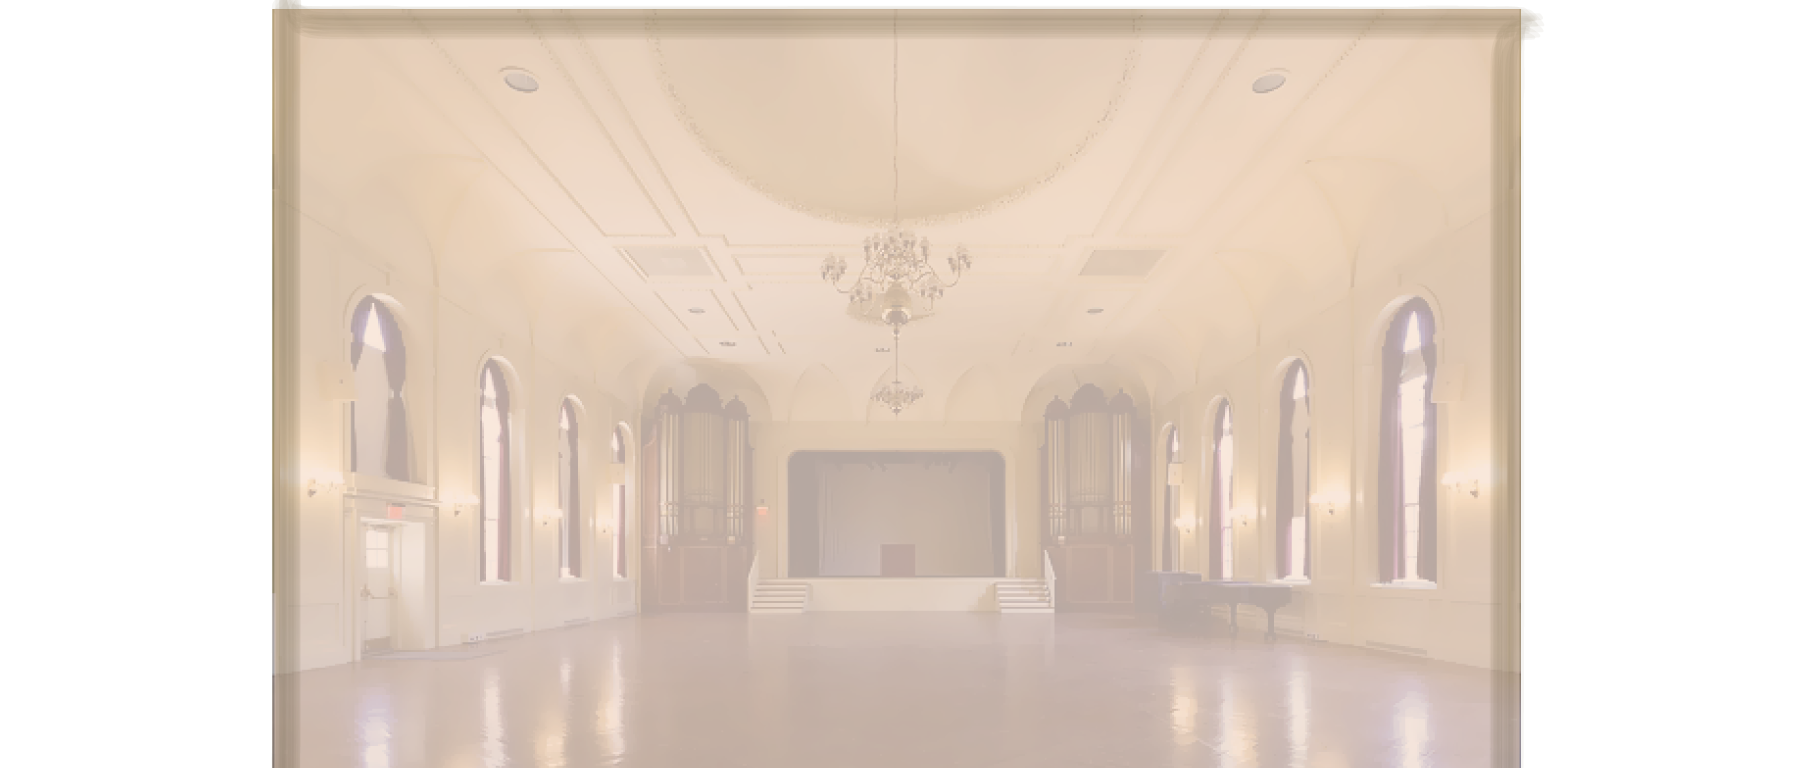
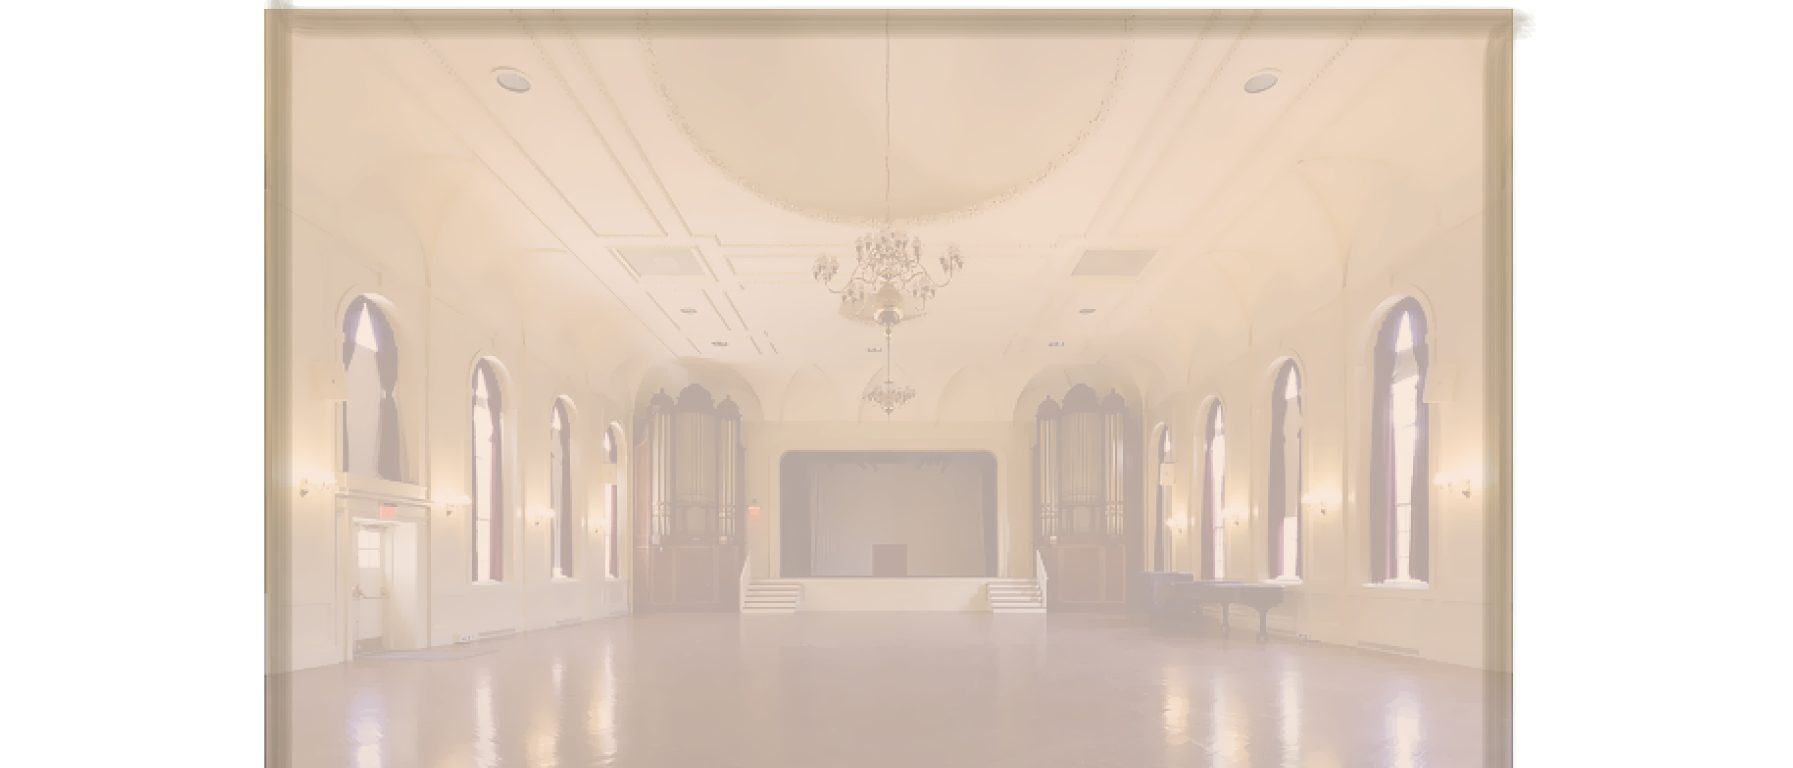
Moved CSS to separate directory for (eventually) more css sheets

diff --git a/css/mainstyles.css b/css/mainstyles.css
@@ -9,11 +9,12 @@
 
 #backdrop {
     background: 
-        url(graphics/button_title_text.png) no-repeat center center fixed,
-        url(graphics/borders.png) no-repeat center center fixed,
-        url(graphics/buttons.png) no-repeat center center fixed,
-        url(graphics/outer_backdrop.png) no-repeat center center fixed,
-        url(graphics/center_backdrop.png) no-repeat center center fixed;
+        url(../graphics/corner_flourishes.png) no-repeat center center fixed,
+        url(../graphics/button_title_text.png) no-repeat center center fixed,
+        url(../graphics/borders.png) no-repeat center center fixed,
+        url(../graphics/buttons.png) no-repeat center center fixed,
+        url(../graphics/outer_backdrop.png) no-repeat center center fixed,
+        url(../graphics/center_backdrop.png) no-repeat center center fixed;
 
     -webkit-background-size: cover;
     -moz-background-size: cover;

diff --git a/past_productions/index.html b/past_productions/index.html
@@ -1,7 +1,7 @@
 <!DOCTYPE html>
 <html>
     <head>
-        <link rel="stylesheet" href="../mainstyles.css" type="text/css"/>
+        <link rel="stylesheet" href="../css/mainstyles.css" type="text/css"/>
         <link rel="icon" type="image/png" href="graphics/favicon.png">
 
         <title>Brown University Gilbert & Sullivan</title>

diff --git a/aboutbugs.html b/aboutbugs.html
@@ -1,7 +1,7 @@
 <!DOCTYPE html>
 <html>
     <head>
-        <link rel="stylesheet" href="mainstyles.css" type="text/css"/>
+        <link rel="stylesheet" href="css/mainstyles.css" type="text/css"/>
         <link rel="icon" type="image/png" href="graphics/favicon.png">
 
         <title>Brown University Gilbert & Sullivan</title>

diff --git a/aboutgs.html b/aboutgs.html
@@ -1,7 +1,7 @@
 <!DOCTYPE html>
 <html>
     <head>
-        <link rel="stylesheet" href="mainstyles.css" type="text/css"/>
+        <link rel="stylesheet" href="css/mainstyles.css" type="text/css"/>
         <link rel="icon" type="image/png" href="graphics/favicon.png">
 
         <title>Brown University Gilbert & Sullivan</title>

diff --git a/gallery.html b/gallery.html
@@ -1,7 +1,7 @@
 <!DOCTYPE html>
 <html>
     <head>
-        <link rel="stylesheet" href="mainstyles.css" type="text/css"/>
+        <link rel="stylesheet" href="css/mainstyles.css" type="text/css"/>
         <link rel="icon" type="image/png" href="graphics/favicon.png">
 
         <title>Brown University Gilbert & Sullivan</title>

diff --git a/getinvolved.html b/getinvolved.html
@@ -1,7 +1,7 @@
 <!DOCTYPE html>
 <html>
     <head>
-        <link rel="stylesheet" href="mainstyles.css" type="text/css"/>
+        <link rel="stylesheet" href="css/mainstyles.css" type="text/css"/>
         <link rel="icon" type="image/png" href="graphics/favicon.png">
 
         <title>Brown University Gilbert & Sullivan</title>

diff --git a/index.html b/index.html
@@ -1,7 +1,7 @@
 <!DOCTYPE html>
 <html>
     <head>
-        <link rel="stylesheet" href="mainstyles.css" type="text/css"/>
+        <link rel="stylesheet" href="css/mainstyles.css" type="text/css"/>
         <link rel="icon" type="image/png" href="graphics/favicon.png">
 
         <title>Brown University Gilbert & Sullivan</title>

diff --git a/links.html b/links.html
@@ -1,7 +1,7 @@
 <!DOCTYPE html>
 <html>
     <head>
-        <link rel="stylesheet" href="mainstyles.css" type="text/css"/>
+        <link rel="stylesheet" href="css/mainstyles.css" type="text/css"/>
         <link rel="icon" type="image/png" href="graphics/favicon.png">
 
         <title>Brown University Gilbert & Sullivan</title>
